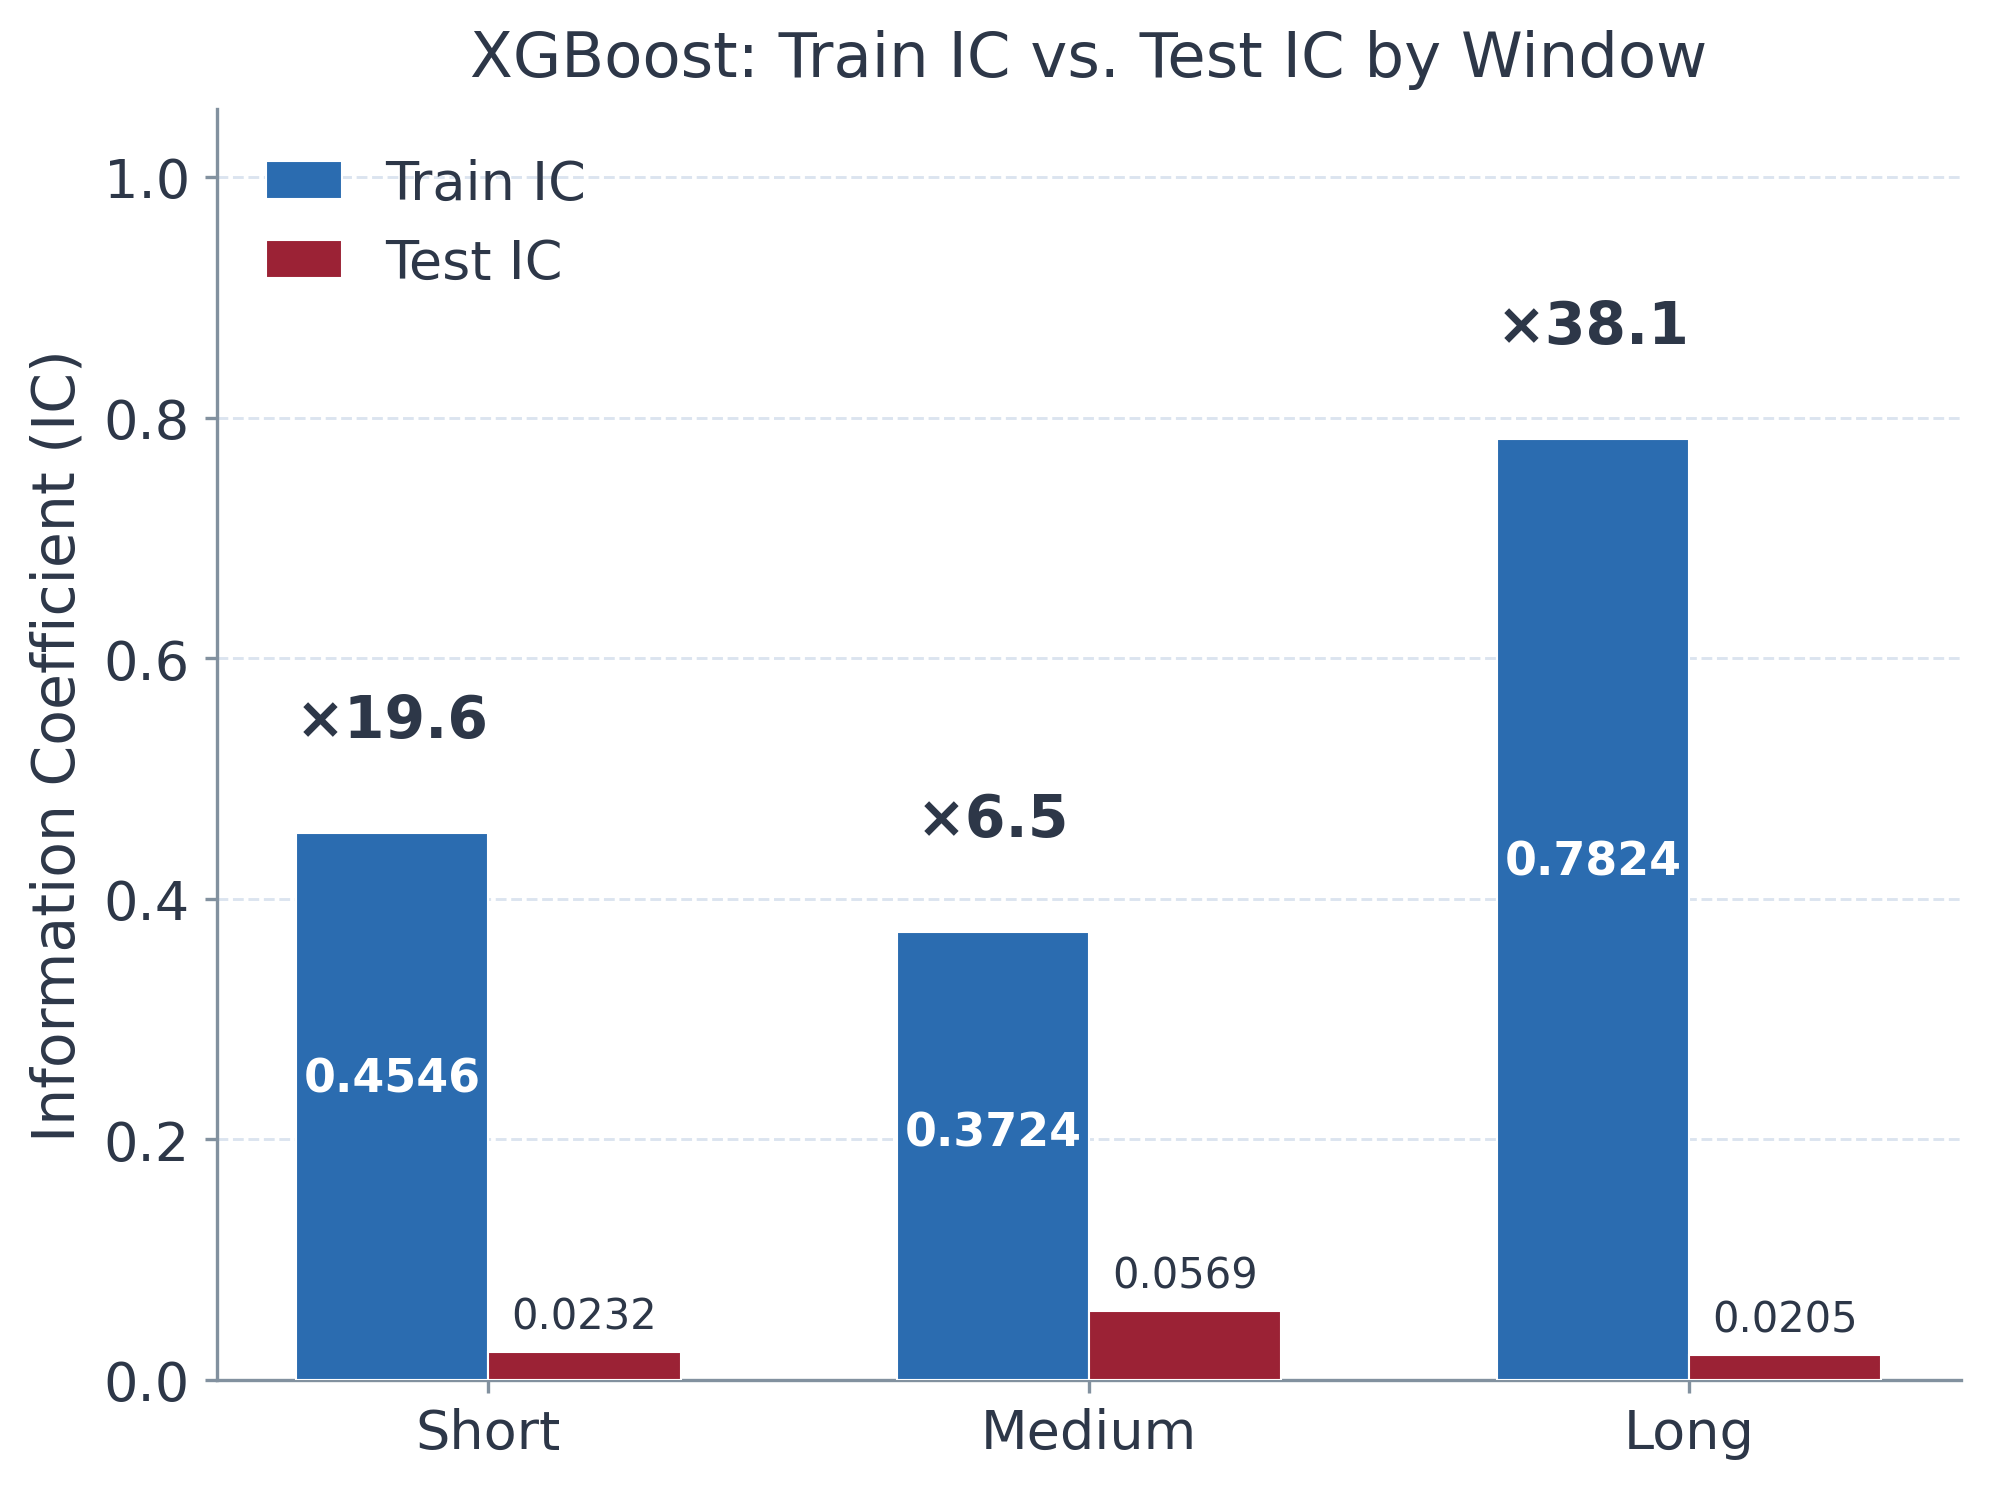
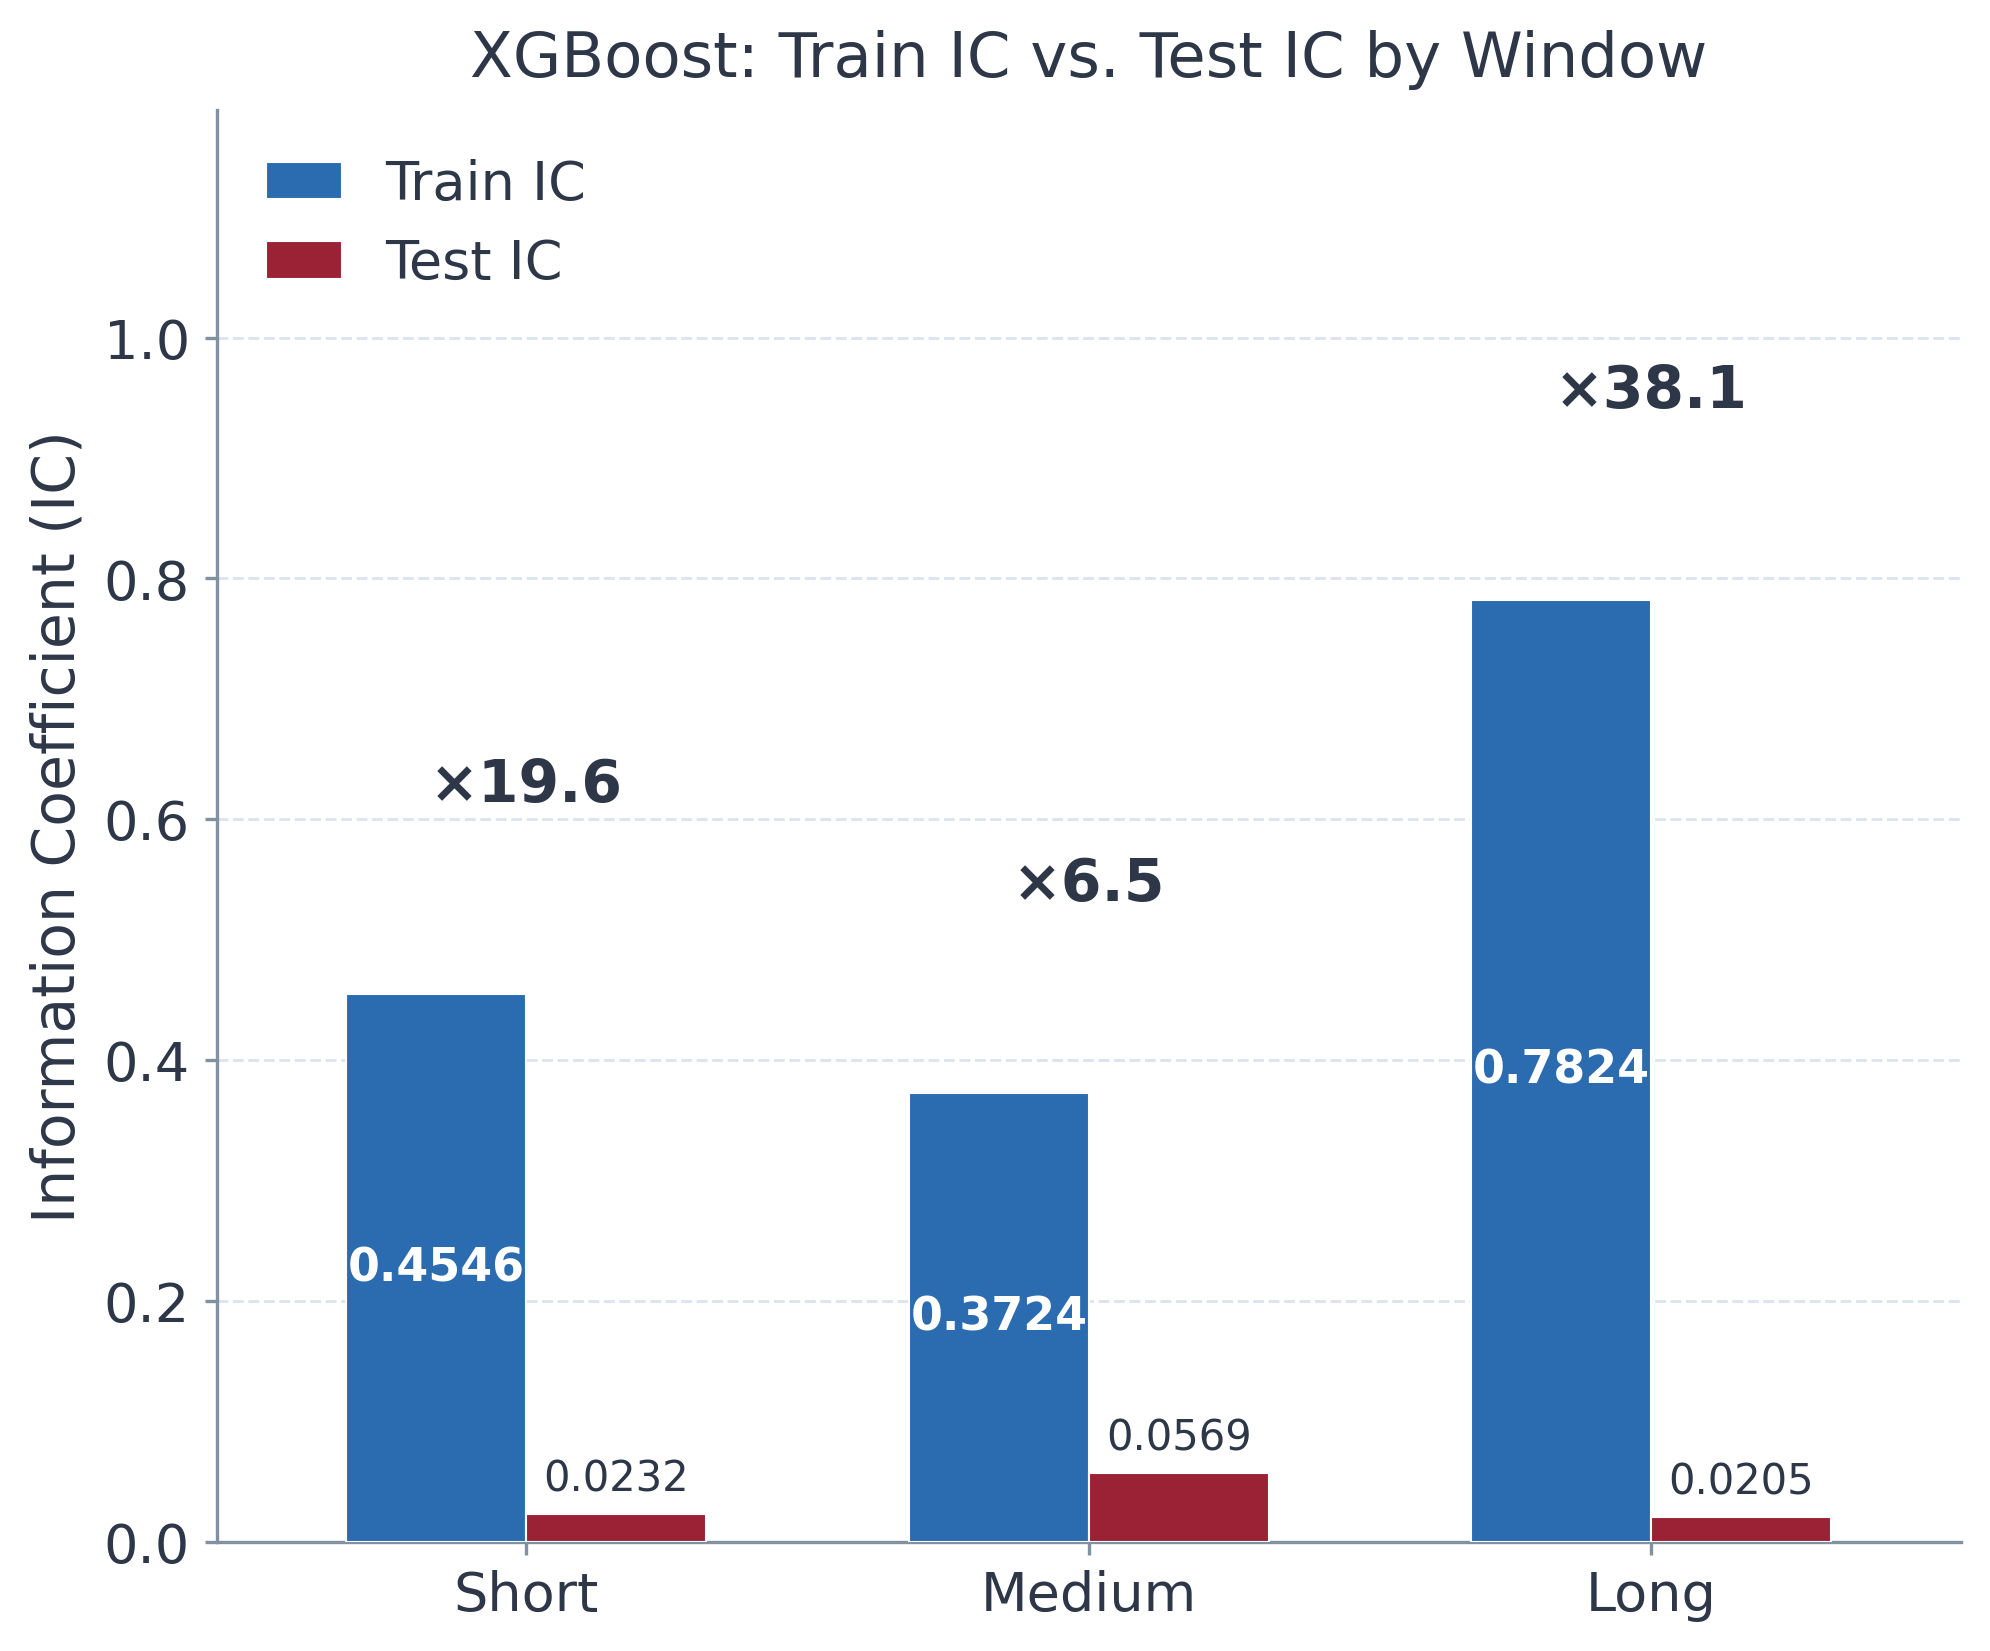
Fix captions, text, figures and add topology heatmap
- 琥珀色 → 黃色 in all figure captions (3 occurrences in Ch4)
- 線性映射 → 線性擬合 in Ch4 subsection title and body, Ch3 LSTM description
- Fig 19: move ×N.N ratio annotations to group centre at tr+0.150;
  extend xlim to (-0.55, 2.55) and ylim to max(train)×1.52 to
  guarantee zero overlap in PDF rendering at any scale
- Replace ch4_fig_topology_comparison.png with ch4_fig_topology_heatmap.png:
  white→thesisBlue per-column gradient table matching Table 11 (Long window);
  best value per column in bold; left-stripe colours distinguish model families
- Update figure caption and label to match new heatmap figure

diff --git a/scripts/generate_ch4_figures.py b/scripts/generate_ch4_figures.py
@@ -185,32 +185,34 @@ def fig_xgboost_gap():
     ratio = [tr / te for tr, te in zip(train, test)]
 
     with plt.rc_context(RC):
-        fig, ax = plt.subplots(figsize=(7.5, 5.5))
+        fig, ax = plt.subplots(figsize=(7.5, 6.2))   # taller figure → more headroom
 
         b1 = ax.bar(x - bw/2, train, width=bw, color=BLUE,
                     label="Train IC", edgecolor="white", linewidth=0.5, zorder=3)
         b2 = ax.bar(x + bw/2, test,  width=bw, color=CRIMSON,
                     label="Test IC",  edgecolor="white", linewidth=0.5, zorder=3)
 
-        # ── Train IC: label inside bar (white text) ──
+        # ── Train IC: value inside bar (white bold) ──
         for bar, v in zip(b1, train):
             cx = bar.get_x() + bar.get_width() / 2
-            cy = v * 0.55           # vertically centred in upper-middle of bar
+            cy = v * 0.50           # mid-point of bar
             ax.text(cx, cy, f"{v:.4f}",
                     ha="center", va="center", fontsize=11,
                     color="white", fontweight="bold", clip_on=False)
 
-        # ── Test IC: label above bar (dark text, small) ──
+        # ── Test IC: value above bar (dark small text) ──
         for bar, v in zip(b2, test):
             ax.text(bar.get_x() + bar.get_width() / 2,
                     v + 0.012, f"{v:.4f}",
                     ha="center", va="bottom", fontsize=10,
                     color=DARK, clip_on=False)
 
-        # ── ratio annotation: well above train bar ──
+        # ── ratio annotation: centred between bars, far above ──
+        # Use group centre (xi) so text is fully inside the axes for every window
         for xi, (tr, r) in enumerate(zip(train, ratio)):
-            ax.text(xi - bw/2,               # centred on the train bar
-                    tr + 0.070, f"×{r:.1f}",
+            ax.text(xi,                 # group centre, not train-bar centre
+                    tr + 0.150,         # much higher than +0.07 to avoid any overlap
+                    f"×{r:.1f}",
                     ha="center", va="bottom", fontsize=14,
                     fontweight="bold", color=DARK, clip_on=False)
 
@@ -221,8 +223,10 @@ def fig_xgboost_gap():
                      color=DARK, fontsize=15, pad=8)
         ax_style(ax)
         ax.legend(frameon=False, fontsize=13, handlelength=1.4, loc="upper left")
-        # leave ample room above the tallest bar + ratio text
-        ax.set_ylim(0, max(train) * 1.35)
+        # explicit xlim with left margin so Short-window text is never clipped
+        ax.set_xlim(-0.55, 2.55)
+        # ample top room for the tallest annotation (train_long + 0.15 + text height)
+        ax.set_ylim(0, max(train) * 1.52)
 
         fig.savefig(os.path.join(OUT_DIR, "ch4_fig_xgboost_gap.png"))
         plt.close(fig)
@@ -520,6 +524,163 @@ def fig_portfolio_metrics_overview():
         print("✓  ch4_fig_portfolio_metrics_overview.png")
 
 
+# ╔══════════════════════════════════════════════════════════════════════════╗
+# ║  Fig G – Topology heatmap (replaces bar chart, matches Table 11)       ║
+# ╚══════════════════════════════════════════════════════════════════════════╝
+def fig_topology_heatmap():
+    """
+    Coloured-cell table showing Long-window topology comparison.
+    Each column is independently normalised white→thesisBlue (rank 0→1).
+    Max DD: higher value (less negative) = better = darker.
+    Left stripe: Amber=DNN, Blue=GAT, Purple=GAT-neutral.
+    """
+    from matplotlib.patches import Rectangle
+
+    BLUE_RGB = np.array([43/255, 108/255, 176/255])
+
+    row_names  = ["DNN", "GAT-universe", "GAT-industry",
+                  "GAT-TwoGraph", "GAT-IndNeutral", "GAT-full"]
+    row_stripes = [AMBER, BLUE, BLUE, BLUE, PURPLE, PURPLE]
+
+    col_names  = ["Daily IC", "ICIR", "Sharpe", "Ann. Ret.", "Total Ret.", "Max DD", "DirAcc"]
+    col_vals   = [
+        [0.0535, 0.0452, 0.0543, 0.0512, 0.0590, 0.0583],   # Daily IC
+        [0.726,  0.526,  0.677,  0.504,  0.786,  0.735],    # ICIR
+        [1.564,  1.506,  1.779,  1.827,  1.803,  1.849],    # Sharpe
+        [35.35,  36.01,  38.13,  39.45,  38.70,  42.02],    # Ann Ret %
+        [106.45, 108.10, 120.83, 127.33, 123.60, 139.08],   # Total Ret %
+        [-21.79, -23.12, -20.44, -19.23, -20.11, -21.86],   # Max DD % (higher=better)
+        [42.58,  42.93,  57.51,  57.50,  57.51,  57.52],    # DirAcc %
+    ]
+    col_fmts   = [".4f", ".3f", ".3f", ".1f", ".1f", ".2f", ".1f"]
+    # suffix per column
+    col_suffix = ["", "", "", "%", "%", "%", "%"]
+
+    n_rows = len(row_names)
+    n_cols = len(col_names)
+
+    # ── coordinate layout ──────────────────────────────────────────────────
+    STRIPE_W = 0.12    # left type stripe
+    NAME_W   = 2.20    # model-name column
+    COL_W    = 1.54    # each metric column   (7 × 1.54 = 10.78)
+    TOTAL_X  = STRIPE_W + NAME_W + n_cols * COL_W    # ≈ 13.10
+
+    HDR_H = 1.0    # header row
+    ROW_H = 1.0    # each data row
+    TOTAL_Y = HDR_H + n_rows * ROW_H   # 7.0
+
+    fig, ax = plt.subplots(figsize=(13, 4.8))
+    ax.set_xlim(0, TOTAL_X)
+    ax.set_ylim(0, TOTAL_Y)
+    ax.axis("off")
+
+    # ── helpers ────────────────────────────────────────────────────────────
+    def blue_grad(t):
+        r = 1.0 + (BLUE_RGB[0] - 1.0) * t
+        g = 1.0 + (BLUE_RGB[1] - 1.0) * t
+        b = 1.0 + (BLUE_RGB[2] - 1.0) * t
+        return (r, g, b, 1.0)
+
+    def text_color(rgba):
+        lum = 0.2126*rgba[0] + 0.7152*rgba[1] + 0.0722*rgba[2]
+        return "white" if lum < 0.50 else DARK
+
+    def col_norm(vals):
+        lo, hi = min(vals), max(vals)
+        if hi == lo: return [0.5]*len(vals)
+        return [(v - lo)/(hi - lo) for v in vals]
+
+    def add_rect(x, y, w, h, fc, ec="white", lw=0.8):
+        ax.add_patch(Rectangle((x, y), w, h,
+                               facecolor=fc, edgecolor=ec, linewidth=lw, zorder=2))
+
+    def cell_text(x, y, w, h, txt, fs=10, fc=DARK, fw="normal"):
+        ax.text(x + w/2, y + h/2, txt,
+                ha="center", va="center", fontsize=fs,
+                color=fc, fontweight=fw, zorder=3, clip_on=False)
+
+    # ── header row (y = n_rows to n_rows+HDR_H) ───────────────────────────
+    y_hdr = n_rows * ROW_H
+    # header background
+    add_rect(0, y_hdr, TOTAL_X, HDR_H, BLUE, ec=BLUE)
+    # "Model" header
+    cell_text(STRIPE_W, y_hdr, NAME_W, HDR_H, "Model",
+              fs=11, fc="white", fw="bold")
+    # metric column headers
+    for j, cname in enumerate(col_names):
+        cx = STRIPE_W + NAME_W + j * COL_W
+        cell_text(cx, y_hdr, COL_W, HDR_H, cname,
+                  fs=10.5, fc="white", fw="bold")
+
+    # ── data rows ──────────────────────────────────────────────────────────
+    for i, (rname, rstripe) in enumerate(zip(row_names, row_stripes)):
+        # rows drawn top-to-bottom → row 0 = topmost → y = (n_rows-1)*ROW_H
+        y_row = (n_rows - 1 - i) * ROW_H
+
+        # alternating row background
+        row_bg = "#F7F9FC" if i % 2 == 0 else "white"
+        add_rect(0, y_row, TOTAL_X, ROW_H, row_bg, ec="none")
+
+        # type stripe
+        add_rect(0, y_row, STRIPE_W, ROW_H, rstripe, ec="none")
+
+        # model name
+        cell_text(STRIPE_W, y_row, NAME_W, ROW_H, rname,
+                  fs=10.5, fc=DARK, fw="bold")
+
+    # ── metric cells ───────────────────────────────────────────────────────
+    for j, (cname, cvals, cfmt, csuf) in enumerate(
+            zip(col_names, col_vals, col_fmts, col_suffix)):
+
+        norms = col_norm(cvals)
+        best_idx = int(np.argmax(cvals))   # highest = best for all cols
+
+        for i, (v, t) in enumerate(zip(cvals, norms)):
+            y_row = (n_rows - 1 - i) * ROW_H
+            cx    = STRIPE_W + NAME_W + j * COL_W
+
+            bg = blue_grad(t)
+            add_rect(cx, y_row, COL_W, ROW_H, bg)
+
+            # value string
+            val_str = format(v, cfmt) + csuf
+            tc = text_color(bg)
+            fs_cell = 10 if i != best_idx else 10
+            fw_cell = "bold" if i == best_idx else "normal"
+            cell_text(cx, y_row, COL_W, ROW_H, val_str,
+                      fs=fs_cell, fc=tc, fw=fw_cell)
+
+    # ── white grid lines ────────────────────────────────────────────────────
+    # horizontal (between rows)
+    for r in range(n_rows + 1):
+        y_line = r * ROW_H
+        ax.plot([0, TOTAL_X], [y_line, y_line],
+                color="white", lw=0.9, zorder=4)
+    # vertical (between metric columns, and name/metric boundary)
+    for j in range(n_cols + 1):
+        x_line = STRIPE_W + NAME_W + j * COL_W
+        ax.plot([x_line, x_line], [0, TOTAL_Y],
+                color="white", lw=0.9, zorder=4)
+
+    # ── legend for stripe colours ───────────────────────────────────────────
+    from matplotlib.patches import Patch
+    legend_handles = [
+        Patch(facecolor=AMBER,  label="DNN (no graph)"),
+        Patch(facecolor=BLUE,   label="GAT topology family"),
+        Patch(facecolor=PURPLE, label="GAT-neutral family"),
+    ]
+    ax.legend(handles=legend_handles,
+              loc="upper center", bbox_to_anchor=(0.5, -0.04),
+              ncol=3, frameon=False, fontsize=11,
+              handlelength=1.2, handletextpad=0.4)
+
+    fig.tight_layout(pad=0.2)
+    fig.savefig(OUT_DIR + "/ch4_fig_topology_heatmap.png",
+                dpi=300, bbox_inches="tight")
+    plt.close(fig)
+    print("✓  ch4_fig_topology_heatmap.png")
+
+
 # ── run all ──────────────────────────────────────────────────────────────────
 if __name__ == "__main__":
     fig_baseline_comparison()
@@ -527,5 +688,6 @@ if __name__ == "__main__":
     fig_topology_comparison()
     fig_neutralization()
     fig_window_effect()
+    fig_topology_heatmap()
     fig_portfolio_metrics_overview()
-    print("\nAll 6 Chapter-4 figures generated successfully.")
+    print("\nAll 7 Chapter-4 figures generated successfully.")

diff --git a/Sections/3.Architecture.tex b/Sections/3.Architecture.tex
@@ -398,7 +398,7 @@ E_I, \quad E_U.
 \begin{equation}
 S_{i,t}=\left[x_{i,t-L+1},x_{i,t-L+2},\ldots,x_{i,t}\right]\in\mathbb{R}^{L\times 56},
 \end{equation}
-並以 \(y_{i,t}\) 作為目標值。模型僅沿著單一股票自身的時間軸更新隱藏狀態，最後一步隱藏狀態再經線性映射形成預測：
+並以 \(y_{i,t}\) 作為目標值。模型僅沿著單一股票自身的時間軸更新隱藏狀態，最後一步隱藏狀態再經線性擬合形成預測：
 \begin{equation}
 h_{i,t}=\mathrm{LSTM}(S_{i,t}), \qquad
 \widehat{y}_{i,t}=w_o^{\top}h_{i,t}+b_o .